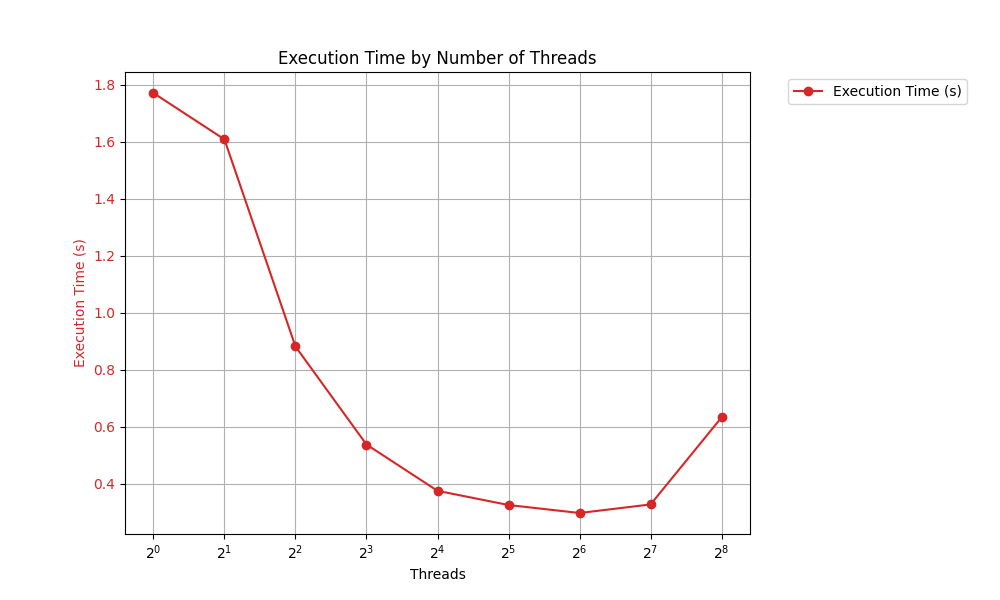
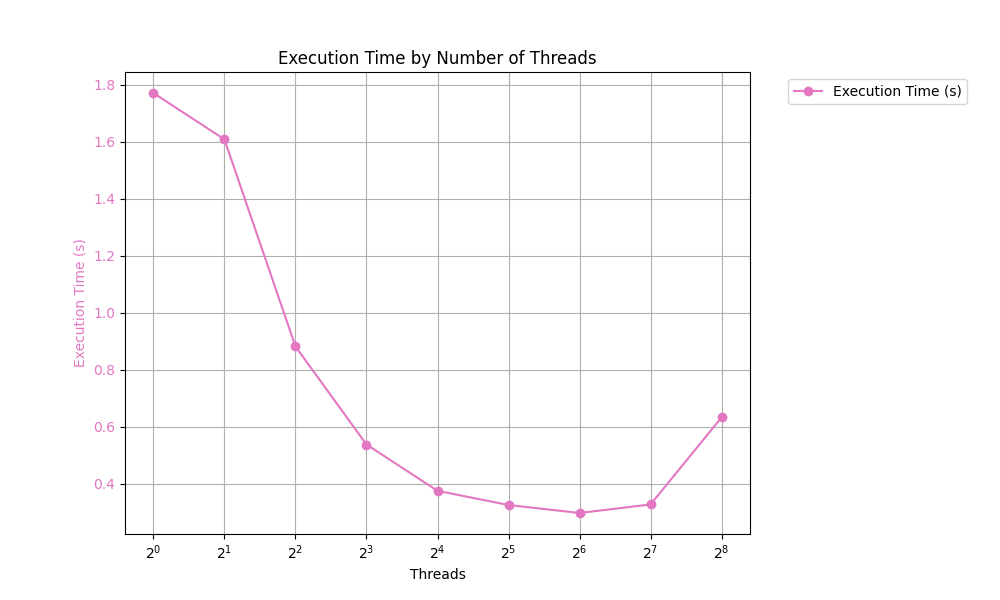
add ipc

diff --git a/openmp/plot.py b/openmp/plot.py
@@ -45,7 +45,7 @@ plt.savefig('scale.png')
 fig2, ax3 = plt.subplots(figsize=(10, 6))
 
 # First axis (left y-axis)
-color = 'tab:red'
+color = 'tab:pink'
 ax3.set_xlabel('Threads')
 ax3.set_ylabel('Execution Time (s)', color=color)
 ax3.plot(threads, exec_time, color=color, label='Execution Time (s)', marker='o')
